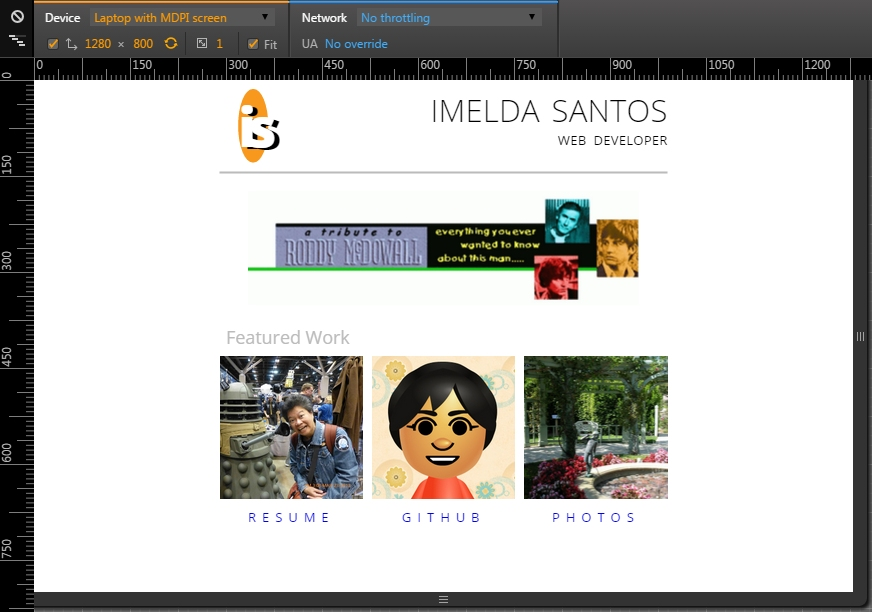
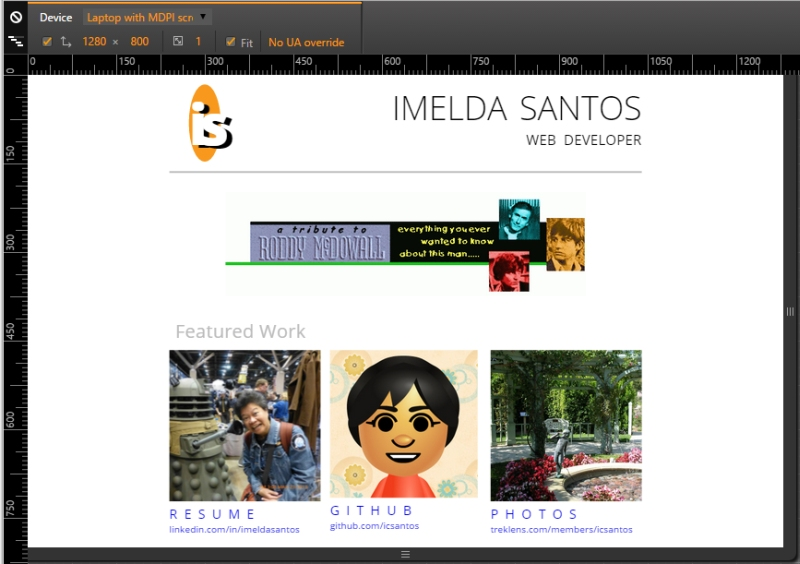
Add srcset for project images

Changed region(s): [[0.0, 0.0, 1.0, 1.0], [0.9688, 0.5426, 1.0, 0.5727]]

diff --git a/js/resumeBuilder.js b/js/resumeBuilder.js
@@ -1,4 +1,3 @@
-
 var bio = {
   "name" : "Imelda Santos",
   "role" : "Web Developer",
@@ -130,18 +129,32 @@ var projects = {
       "description" : "Replicate a design mockup in a responsive website using HTML5 and CSS3.",
       "url" : "https://github.com/icsantos/FEND-build-a-portfolio",
       "images" : [
-        "images/fend1_laptop.jpg",
-        "images/fend1_nexus5.jpg"
+        "images/fend1_nexus5.jpg",
+        "images/fend1_laptop.jpg"
       ]
     }, {
       "title" : "Front-End Nanodegree Project 2: Online Resume",
       "dates" : "05/07/2015 - present",
       "description" : "Demonstrate mastery of JavaScript and jQuery to design an online resume.",
       "url" : "https://github.com/icsantos/frontend-nanodegree-resume",
-      "images" : [""]
+      "images" : [
+        "images/fend2_laptop.jpg"
+      ]
     }
   ]
 };
+
+var icomoon = {
+  "contacts" : {
+    "generic" : "&#xe972;",
+    "mobile" : "&#xe958;",
+    "email" : "&#xea84;",
+    "github" : "&#xeab1;",
+    "twitter" : "&#xea91;",
+    "location" : "&#xe948;",
+    "blog" : "&#xeaba;"
+  }
+}
 
 function inName(name) {
   var names = name.trim().split(" ");
@@ -158,35 +171,33 @@ function locationizer(work_obj) {
   return locations;
 }
 
-function editContact(pText, pHTMLentity) {
-  var iconSpan = '<span class="orange-text contact-icon">' + pHTMLentity + '</span>';
+function editContact(pText, pType) {
+  var contactData = bio.contacts[pType];
+  var htmlEntity = icomoon.contacts[pType];
+  var iconSpan = '<span class="orange-text contact-icon">' + htmlEntity + '</span>';
   var pos = pText.indexOf('<span class="orange-text">');
+  pText = pText.replace("%data%", contactData);
   pText = pText.replace('orange-text', 'orange-text contact-text');
-  return pText.slice(0, pos) + iconSpan + pText.slice(pos);
+  pText = pText.slice(0, pos) + iconSpan + pText.slice(pos);
+  return pText;
 }
 
-function editContact2(pText, pHTMLentity) {
-  var iconSpan = '<span class="orange-text contact-icon">' + pHTMLentity + '</span>';
-  var pos = pText.indexOf('<span class="orange-text">');
-  pText = pText.replace('orange-text', 'orange-text contact-text');
-  return pText.slice(0, pos) + iconSpan + pText.slice(pos);
-}
-
-function makeFigure(images_arr) {
-  var figure = '';
-  return figure;
-}
-
-var icomoon = {
-  "contacts" : {
-    "generic" : "&#xe972;",
-    "mobile" : "&#xe958;",
-    "email" : "&#xea84;",
-    "github" : "&#xeab1;",
-    "twitter" : "&#xea91;",
-    "location" : "&#xe948;",
-    "blog" : "&#xeaba;"
+function editImage(imgClass, imgText, image_arr, width_arr) {
+  var imageCnt = image_arr.length;
+  var pos;
+  if (imageCnt > 1 && imageCnt === width_arr.length) {
+    var srcset = '';
+    for (var i = 0; i < imageCnt; i++) {
+      srcset = srcset + image_arr[i] + ' ' + width_arr[i] + (i+1 < imageCnt ? ', ' : '');
+    }
+    srcset = 'srcset="' + srcset + '" sizes="100vw" ';
+    pos = imgText.indexOf('src="%data%"');
+    imgText = imgText.slice(0, pos) + srcset + imgText.slice(pos);
   }
+  //pos = imgText.indexOf(' ');
+  //imgText = imgText.slice(0, pos) + ' class="' + imgClass + '"' + imgText.slice(pos);
+  imgText = imgText.replace("%data%", image_arr[0]);
+  return imgText;
 }
 
 bio.display = function () {
@@ -195,39 +206,25 @@ bio.display = function () {
   if (bio.contacts) {
     var contacts = bio.contacts;
     if (contacts.generic) {
-      contactGeneric = HTMLcontactGeneric.replace("%data%", contacts.generic);
-      contactGeneric = editContact(contactGeneric, '&#xe972;');
-      $("#topContacts, #footerContacts").append(contactGeneric);
+      $("#topContacts, #footerContacts").append(editContact(HTMLcontactGeneric, "generic"));
     }
     if (contacts.mobile) {
-      contactMobile = HTMLmobile.replace("%data%", contacts.mobile);
-      contactMobile = editContact(contactMobile, '&#xe958;');
-      $("#topContacts, #footerContacts").append(contactMobile);
+      $("#topContacts, #footerContacts").append(editContact(HTMLmobile, "mobile"));
     }
     if (contacts.email) {
-      var contactEmail = HTMLemail.replace("%data%", contacts.email);
-      contactEmail = editContact(contactEmail, '&#xea84;');
-      $("#topContacts, #footerContacts").append(contactEmail);
+      $("#topContacts, #footerContacts").append(editContact(HTMLemail, "email"));
     }
     if (contacts.github) {
-      var contactGithub = HTMLgithub.replace("%data%", contacts.github);
-      contactGithub = editContact(contactGithub, '&#xeab1;');
-      $("#topContacts, #footerContacts").append(contactGithub);
+      $("#topContacts, #footerContacts").append(editContact(HTMLgithub, "github"));
     }
     if (contacts.twitter) {
-      var contactTwitter = HTMLtwitter.replace("%data%", contacts.twitter);
-      contactTwitter = editContact(contactTwitter, '&#xea91;');
-      $("#topContacts, #footerContacts").append(contactTwitter);
+      $("#topContacts, #footerContacts").append(editContact(HTMLtwitter, "twitter"));
     }
     if (contacts.location) {
-      var contactLocation = HTMLlocation.replace("%data%", contacts.location);
-      contactLocation = editContact(contactLocation, '&#xe948;');
-      $("#topContacts, #footerContacts").append(contactLocation);
+      $("#topContacts, #footerContacts").append(editContact(HTMLlocation, "location"));
     }
     if (contacts.blog) {
-      var contactBlog = HTMLblog.replace("%data%", contacts.blog);
-      contactBlog = editContact(contactBlog, '&#xeaba;');
-      $("#topContacts, #footerContacts").append(contactBlog);
+      $("#topContacts, #footerContacts").append(editContact(HTMLblog, "blog"));
     }
   }
   $("#header").append(HTMLbioPic.replace("%data%", bio.biopic));
@@ -241,7 +238,7 @@ bio.display = function () {
 };
 
 education.display = function () {
-  for (school in education.schools) {
+  for (var school in education.schools) {
     var formattedSchoolName = HTMLschoolName.replace("%data%", education.schools[school].name);
     formattedSchoolName = formattedSchoolName.replace("#", education.schools[school].url);
     var formattedSchoolDegree = HTMLschoolDegree.replace("%data%", education.schools[school].degree);
@@ -258,7 +255,7 @@ education.display = function () {
 
   if (education.onlineCourses.length > 0) {
     $("#education").append(HTMLonlineClasses);
-    for (course in education.onlineCourses) {
+    for (var course in education.onlineCourses) {
       var formattedTitle = HTMLonlineTitle.replace("%data%", education.onlineCourses[course].title);
       formattedTitle = formattedTitle.replace("#", education.onlineCourses[course].url);
       var formattedSchool = HTMLonlineSchool.replace("%data%", education.onlineCourses[course].school);
@@ -272,7 +269,7 @@ education.display = function () {
 }
 
 work.display = function () {
-  for (job in work.jobs) {
+  for (var job in work.jobs) {
     var formattedWorkEmployer = HTMLworkEmployer.replace("%data%", work.jobs[job].employer);
     formattedWorkEmployer = formattedWorkEmployer.replace("#", work.jobs[job].url);
     var formattedWorkTitle = HTMLworkTitle.replace("%data%", work.jobs[job].title);
@@ -286,7 +283,7 @@ work.display = function () {
 }
 
 projects.display = function () {
-  for (project in projects.projects) {
+  for (var project in projects.projects) {
     var formattedProjectTitle = HTMLprojectTitle.replace("%data%", projects.projects[project].title);
     formattedProjectTitle = formattedProjectTitle.replace("#", projects.projects[project].url);
 
@@ -296,9 +293,8 @@ projects.display = function () {
     $(".project-entry:last").append(HTMLprojectDescription.replace("%data%", projects.projects[project].description));
 
     if (projects.projects[project].images.length > 0) {
-      for (image in projects.projects[project].images) {
-        $(".project-entry:last").append(HTMLprojectImage.replace("%data%", projects.projects[project].images[image]));
-      }
+      var projImage = editImage("project-image", HTMLprojectImage, projects.projects[project].images, ['400w', '800w']);
+       $(".project-entry:last").append(projImage);
     }
   }
 };

diff --git a/css/style.css b/css/style.css
@@ -248,8 +248,7 @@ span {
   }
   .contact-icon {
     display: none;
-  }
-  
+  }  
   .contact-text {
     display: inline;
   }
